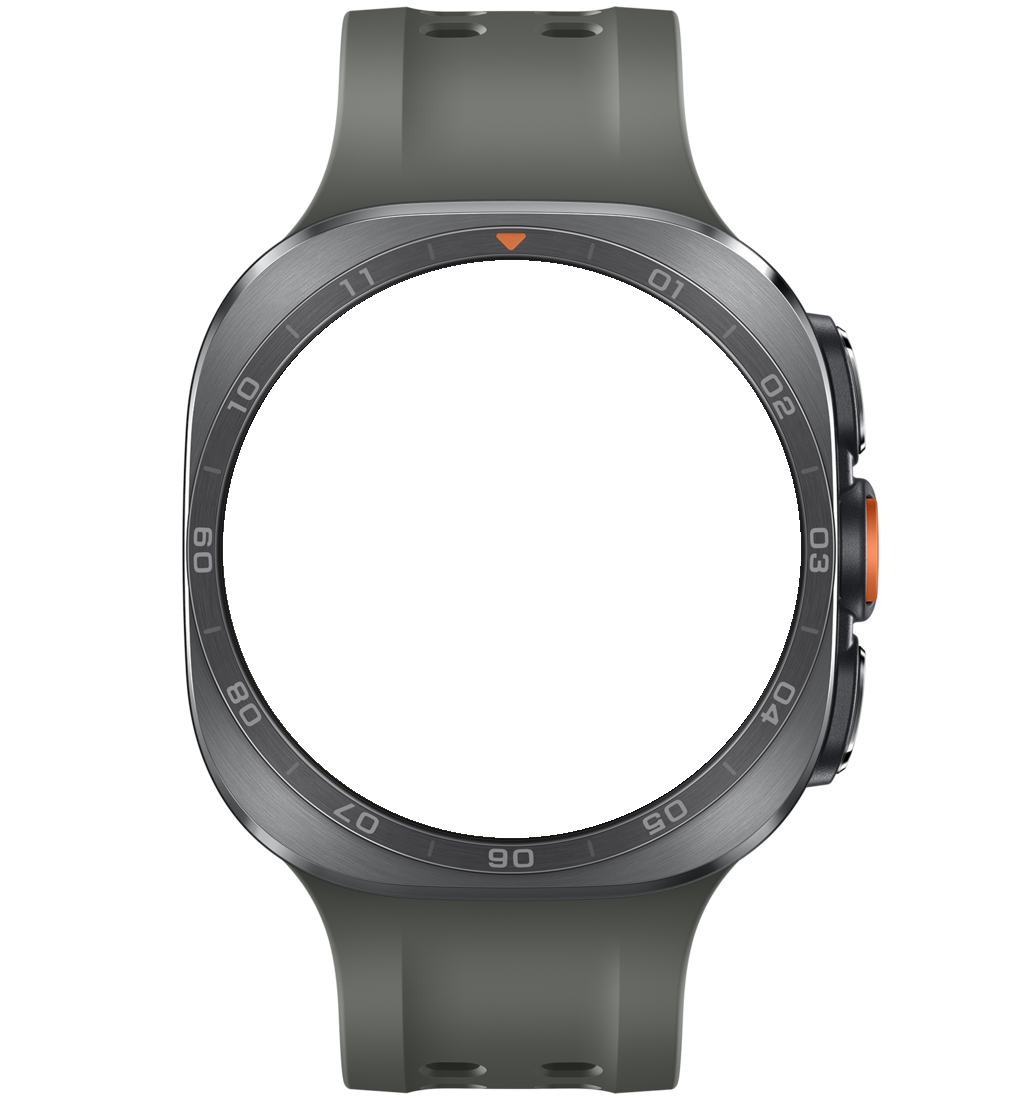
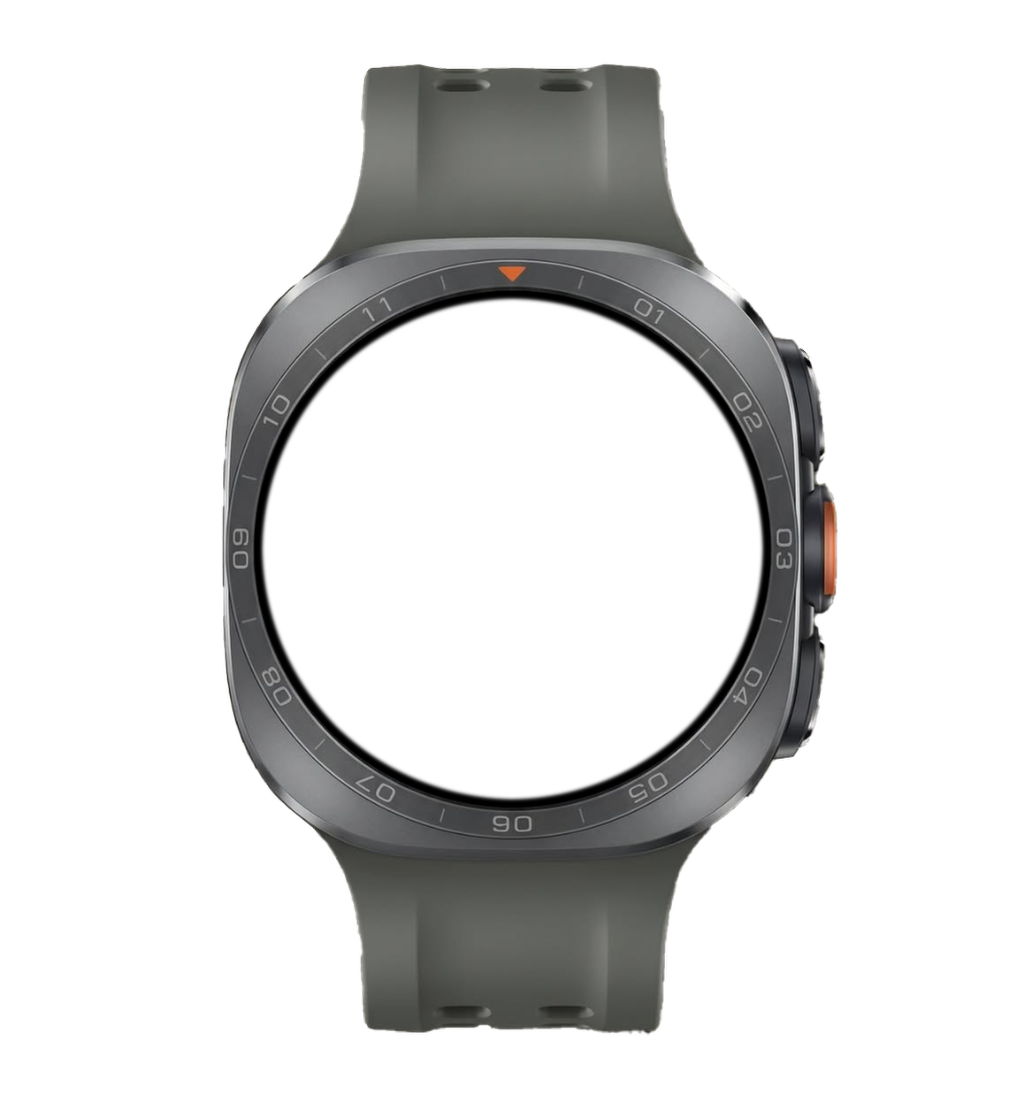
feat: adopt new cropped user watch frames, center watch faces, and set black background fill

Changed region(s): [[0.1562, 0.0, 0.875, 1.0]]

diff --git a/index.html b/index.html
@@ -1985,7 +1985,7 @@
             top: 49.86%;
             left: 50%;
             transform: translate(-50%, -50%);
-            width: 57.0%;
+            width: 52.0%;
             height: auto;
             aspect-ratio: 1 / 1;
             border-radius: 50%;
@@ -1999,7 +1999,7 @@
             top: 49.86%;
             left: 50%;
             transform: translate(-50%, -50%);
-            width: 52.8%;
+            width: 48.0%;
             height: auto;
             aspect-ratio: 1 / 1;
             border-radius: 0;
@@ -3940,29 +3940,29 @@
                 id: 'samsung',
                 name: 'Samsung Galaxy Watch Ultra',
                 frame: 'images/watch_frame_samsung.png',
-                faceSize: '52.8%',
-                bgSize: '57.0%'
+                faceSize: '48.0%',
+                bgSize: '52.0%'
             },
             ticwatch: {
                 id: 'ticwatch',
                 name: 'TicWatch Pro 5 Enduro',
                 frame: 'images/watch_frame_ticwatch.png',
-                faceSize: '61.5%',
-                bgSize: '64.5%'
+                faceSize: '45.8%',
+                bgSize: '50.0%'
             },
             xiaomi: {
                 id: 'xiaomi',
                 name: 'Xiaomi Watch 2 Pro',
                 frame: 'images/watch_frame_xiaomi.png',
-                faceSize: '69.2%',
-                bgSize: '72.0%'
+                faceSize: '48.2%',
+                bgSize: '52.0%'
             },
             pixel: {
                 id: 'pixel',
                 name: 'Google Pixel Watch 3',
                 frame: 'images/watch_frame_pixel.png',
-                faceSize: '65.5%',
-                bgSize: '68.5%'
+                faceSize: '48.2%',
+                bgSize: '52.0%'
             }
         };
 
